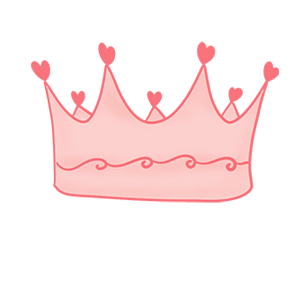
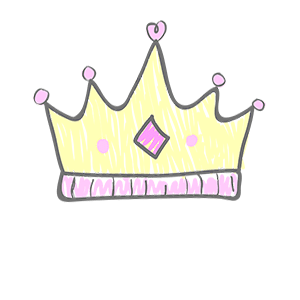
update 保存皇冠图片

Changed region(s): [[0.09, 0.06, 0.93, 0.69]]

diff --git a/taro/src/pages/queen-king/queen-king.js b/taro/src/pages/queen-king/queen-king.js
@@ -184,15 +184,10 @@ class QueenKing extends Component {
 
       console.log(((Date.now() - oldTime) / 1000).toFixed(1) + '秒')
 
-      console.log('图片分析的结果 :', couldRes);
-
-      const mouthList = getMouthInfo(couldRes)
+      console.log('图片分析的结果 :', couldRes)
       const hatList = getHatInfo(couldRes)
       console.log('hatList :', hatList);
-      let shapeList = getMaskShapeList(mouthList, DPR_CANVAS_SIZE, ORIGiN_SHAPE_SIZE)
-      let hatShapeList = getHatShapeList(hatList, DPR_CANVAS_SIZE, ORIGiN_SHAPE_SIZE)
-      console.log('hatShapeList :', hatShapeList);
-      shapeList = shapeList.concat(hatShapeList)
+      let shapeList = getHatShapeList(hatList, DPR_CANVAS_SIZE, ORIGiN_SHAPE_SIZE)
 
       setTmpThis(this, shapeList[0])
 
@@ -293,6 +288,7 @@ class QueenKing extends Component {
     shapeList.forEach(shape => {
       pc.save()
       const {
+        name,
         shapeWidth,
         rotate,
         shapeCenterX,
@@ -306,7 +302,7 @@ class QueenKing extends Component {
       pc.rotate((rotate * Math.PI) / 180)
 
       pc.drawImage(
-        require(`../../images/shape-${currentShapeId}${reserve < 0 ? '-reverse' : ''}.png`),
+        require(`../../images/${name}-${currentShapeId}${reserve < 0 ? '-reverse' : ''}.png`),
         -shapeSize / 2,
         -shapeSize / 2,
         shapeSize,
@@ -595,12 +591,7 @@ class QueenKing extends Component {
     } = this.state
 
 
-    let tabsTips = ''
-    if (currentTabIndex === 0) {
-      tabsTips = currentShapeIndex >= 0 ? '点击更换口罩' : '点击新增口罩'
-    } else if (currentTabIndex === 1) {
-      tabsTips = currentJiayouId >= 1 ? '点击更换文案图片' : '点击新增文案图片'
-    }
+    let tabsTips = (currentShapeIndex >= 0 ? '点击更换' : '点击新增') + materialList[currentTabIndex].cn
 
     return (
       <View className='shape-page'>
@@ -674,14 +665,14 @@ class QueenKing extends Component {
                       )
                     })
                   }
-                  {
+                  {/* {
                     isShowShape && currentJiayouId > 0 && (
                       <View className="image-jiayou">
                         <Image id='shape' src={require(`../../images/jiayou-${currentJiayouId}.png`)} />
                         <View className='image-btn-jiayou' onClick={this.chooseJiayouId}></View>
                       </View>
                     )
-                  }
+                  } */}
                 </View>
               )
               : (
@@ -739,11 +730,7 @@ class QueenKing extends Component {
                           className={`tab-hd-item ${currentTabIndex === itemIndex ? 'tab-hd-active' : ''}`}
                           onClick={this.chooseTab.bind(this, itemIndex)}
                         >
-                          <Image
-                            className='tab-hd-image'
-                            src={item.icon}
-                            mode='aspectFit'
-                          />
+                          {item.cn}
                         </View>
                       )
                     })

diff --git a/taro/src/pages/queen-king/utils.js b/taro/src/pages/queen-king/utils.js
@@ -53,15 +53,14 @@ export const setTmpThis = (el, elState) => {
 
 export const materialList = [
   {
-    name: 'mask',
-    icon: require('../../images/icon-category-mask.png'),
+    name: 'crown',
+    cn: '皇冠',
     imgList: [1, 2, 3, 4, 5, 6, 7, 8, 9, 10],
     type: 'multi'
   },
-  {
-    name: 'jiayou',
-    icon: require('../../images/icon-category-jiayou.png'),
-    imgList: [1, 2, 3, 4, 5, 6],
-    type: 'single'
-  }
+  // {
+  //   name: 'jiayou',
+  //   imgList: [1, 2, 3, 4, 5, 6],
+  //   type: 'single'
+  // }
 ]
